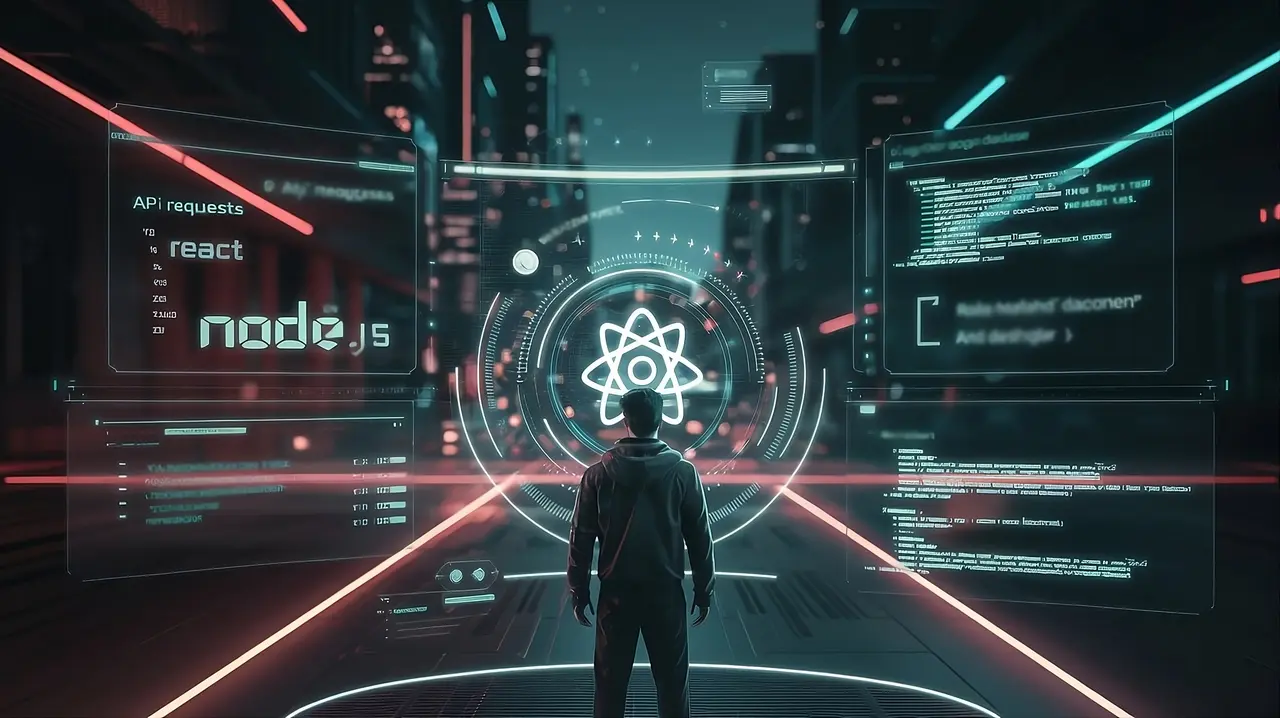
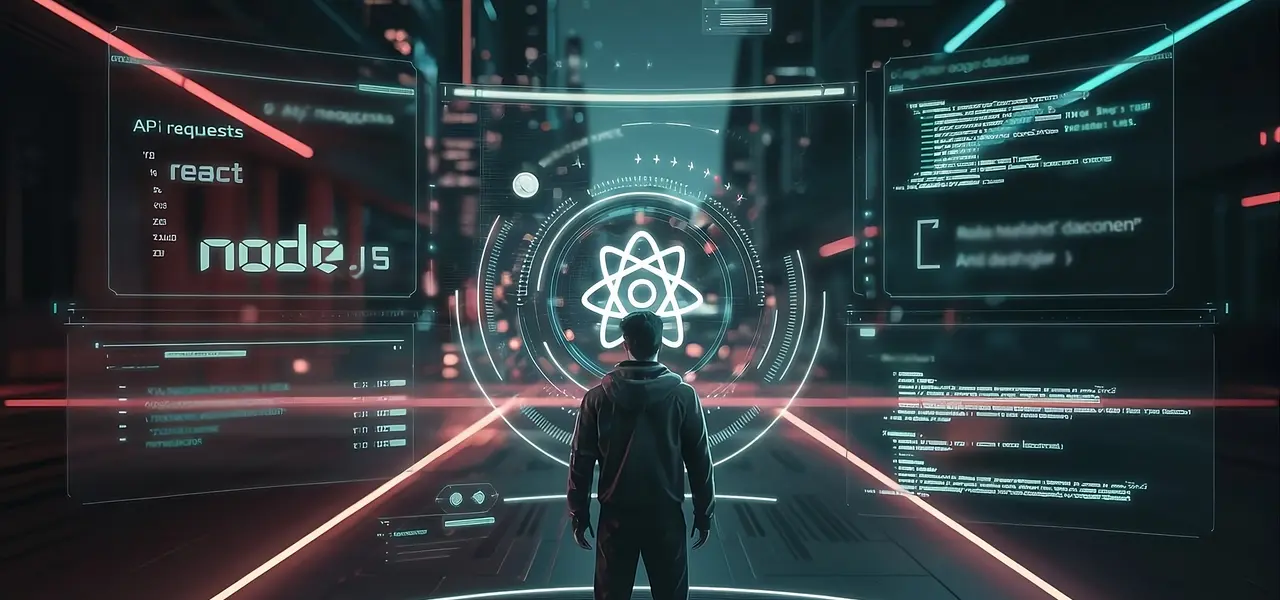
change hero

diff --git a/src/components/Hero/Hero.module.css b/src/components/Hero/Hero.module.css
@@ -8,66 +8,74 @@
       rgba(46, 47, 66, 0.7)
     ),
     url(../../images/hero.webp);
-  height: 718px;
+  box-shadow: inset 0 0 20px 5px rgba(0, 0, 0, 0.5);
+  height: 600px;
   display: flex;
-  padding: 10px 20px;
+  flex-direction: column;
+  gap: 30px;
+  padding: 30px;
   font-size: 24px;
-  justify-content: center;
-  align-items: center;
+  justify-content: end;
+  align-items: start;
+}
+.title {
+  text-shadow: 1px 1px 20px black;
+  line-height: 0.8;
+  font-size: 56px;
+  & p {
+    font-size: 24px;
+  }
+}
+.description {
+  color: rgb(255, 255, 255);
+  font-size: 28px;
+  font-weight: 100;
+  text-decoration: overline;
+  text-shadow: 1px 1px 20px rgb(255, 255, 255);
 }
 .button {
-  position: absolute;
-  top: 50%;
-  left: 50%;
-  transform: translate(-50%, -50%);
-  width: 220px;
-  height: 50px;
-  background: #232323;
-  text-decoration: none;
-  text-transform: uppercase;
-  text-align: center;
-  line-height: 50px;
-  color: #ff0;
-  font-size: 20px;
-  font-family: "Play";
-  letter-spacing: 4px;
-  /*    border-radius: 20px; */
+  box-shadow: 1px 1px 20px rgb(255, 255, 255);
+  font-weight: bold;
+  color: rgb(216, 216, 216);
+  border-radius: 18px 2px 18px 2px;
+  padding: 8px 40px;
+  outline: transparent;
+  border: 1px solid transparent;
+  transition: color 250ms ease-in-out;
+}
+.button:hover,
+.button:focus {
+  color: rgb(0, 0, 0);
+  border: 1px solid black;
 }
 
-.button:before,
-.button:after,
-span:before,
-span:after {
-  content: "";
-  position: absolute;
-  width: 10px;
-  height: 10px;
-  background: #ff0;
-  transition: 1s;
-  mix-blend-mode: hue;
+.button {
+  text-decoration: none;
+  background-color: rgb(19, 4, 43);
+  position: relative;
+  overflow: hidden;
+}
+
+.button:hover {
+  background-color: rgba(146, 148, 248, 0.4);
 }
 
 .button:before {
-  top: -2px;
-  left: -2px;
-}
-.button:after {
-  top: -2px;
-  right: -2px;
-}
-span:before {
-  bottom: -2px;
-  left: -2px;
-}
-span:after {
-  bottom: -2px;
-  right: -2px;
+  content: "";
+  position: absolute;
+  top: 0;
+  left: -100%;
+  width: 100%;
+  height: 100%;
+  background: linear-gradient(
+    120deg,
+    transparent,
+    rgba(146, 148, 248, 0.4),
+    transparent
+  );
+  transition: all 650ms;
 }
 
-.button:hover:before,
-.button:hover:after,
-.button:hover span:before,
-.button:hover span:after {
-  width: calc(180px / 2);
-  height: calc(50px / 2);
+.button:hover:before {
+  left: 100%;
 }

diff --git a/src/components/Header/Header.module.css b/src/components/Header/Header.module.css
@@ -9,16 +9,16 @@
   justify-content: space-between;
   align-items: center;
   margin-bottom: 10px;
+  box-shadow: inset 0 0 20px 5px rgba(0, 0, 0, 0.5);
 }
 .logo {
   position: relative;
-  font-family: "Lucida Sans", "Lucida Sans Regular", "Lucida Grande",
-    "Lucida Sans Unicode", Geneva, Verdana, sans-serif;
   color: yellow;
-  text-shadow: 1px 1px 20px black;
+  font-size: 28px;
+  text-shadow: 2px 2px 20px black;
   & span {
     font-family: "Indie Flower", serif;
-    font-size: 28px;
+    font-size: 32px;
     color: dodgerblue;
   }
   & p {
@@ -26,7 +26,7 @@
     position: absolute;
     bottom: -2px;
     right: -4px;
-    font-size: 12px;
+    font-size: 14px;
   }
 }
 .navList {
@@ -36,26 +36,28 @@
   font-size: 20px;
 }
 .link {
-  color: rgb(216, 216, 216);
+  font-weight: bold;
+  color: white;
   border-radius: 2px 18px 2px 18px;
+  border: 1px solid rgb(150, 150, 150);
   padding: 4px 12px;
-  transition: color 250ms ease-in-out;
+  transition: color 250ms ease-in-out, border-color 250ms ease-in-out;
 }
 .link:hover,
 .link:focus {
-  color: white;
+  color: rgb(0, 0, 0);
+  border-color: black;
 }
 
 .link {
   text-decoration: none;
   background-color: rgb(19, 4, 43);
-  /* border: 1px solid rgba(146, 148, 248, 0.5); */
   position: relative;
   overflow: hidden;
 }
 
 .link:hover {
-  box-shadow: 1px 1px 25px 10px rgba(146, 148, 248, 0.4);
+  background-color: rgba(146, 148, 248, 0.4);
 }
 
 .link:before {

diff --git a/src/components/Header/Header.tsx b/src/components/Header/Header.tsx
@@ -5,7 +5,7 @@ const Header: React.FC = () => {
     <header className={s.header}>
       <div className={s.logo}>
         <div>
-          Tymchuk<span>DEVELOPER</span>
+          TYMCHUK<span>DEVELOPER</span>
         </div>
         <p>Make your WEB world better...</p>
       </div>
@@ -14,7 +14,7 @@ const Header: React.FC = () => {
           About Me
         </a>
         <a className={s.link} href="#">
-          Projects
+          My Projects
         </a>
         <a className={s.link} href="#">
           Contacts

diff --git a/src/components/Hero/Hero.tsx b/src/components/Hero/Hero.tsx
@@ -3,9 +3,13 @@ import s from "./Hero.module.css";
 const Hero: React.FC = () => {
   return (
     <div className={s.hero}>
-      <a className={s.button}>
-        <span></span>Contact Me
-      </a>
+      <h1 className={s.title}>
+        <p>TYMCHUK</p> FULLSTACK DEVELOPER
+      </h1>
+      <h2 className={s.description}>
+        Turning Your Ideas into Functional and Beautiful Apps!
+      </h2>
+      <button className={s.button}>Contact Me</button>
     </div>
   );
 };

diff --git a/src/components/LogoWall/LogoWall.module.css b/src/components/LogoWall/LogoWall.module.css
@@ -1,16 +1,18 @@
 .box {
   overflow: hidden;
+  margin: 10px 0;
 }
 .marquee {
   max-width: 100%;
 }
 .subBox1 {
+  border: 1px solid rgba(146, 148, 248, 0.5);
   border-radius: 5px;
   place-items: center;
   width: 120px;
   height: 130px;
   padding: 15px 15px 2px;
-  margin: 10px;
+  margin: 0 10px;
   text-align: center;
   background-color: #223333dd;
   & h3 {
@@ -21,4 +23,5 @@
 .subBox2 {
   composes: subBox1;
   background-color: #222233dd;
+  margin-top: 10px;
 }

diff --git a/src/styles/index.css b/src/styles/index.css
@@ -14,5 +14,7 @@ canvas {
   position: fixed;
   top: 0;
   left: 0;
+  height: 100vh;
+  width: 100vw;
   z-index: -10;
 }
